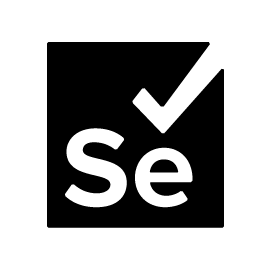
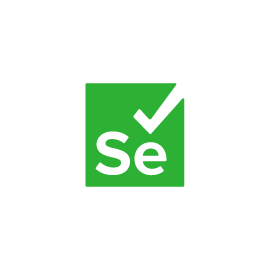
init

diff --git a/scss/main.scss b/scss/main.scss
@@ -10,18 +10,18 @@
 
 $chicago: #4C8DBF !default
 $bangalore: #40AF49 !default
-$selenium: #2F792B !default
+$selenium: #28A82E !default
 
 $selenium-invert: #fff;
 $bangalore-invert: findColorInvert($bangalore);
 $chicago-invert: findColorInvert($chicago);
-
+$primary: #28A82E;
 // Add a serif family
 $family-serif: "Merriweather", "Georgia", serif;
 
 // 3. Set the derived variables
 // Use the new pink as the primary color
-$primary: $selenium;
+$primary: #28A82E;
 $primary-invert: $selenium-invert;
 // Use the existing orange as the danger color
 //$danger: $orange;
@@ -44,13 +44,16 @@ $addColors: (
         "github": ($github, $github-invert),
         "bangalore": ($bangalore $bangalore-invert),
         "chicago": ($chicago, $chicago-invert),
-        "selenium": ($selenium, $selenium-invert)
+        "selenium": ($selenium, $selenium-invert),
+        "primary":($selenium, $selenium-invert),
+        "grey": ($grey-lighter, $white)
 );
 $colors: map-merge($colors, $addColors);
 
 // 6. Import the rest of Bulma
 @import "../sass/bulma";
-
+$primary: $selenium;
+$primary-invert: $selenium-invert;
 // Custom
 .navbar-brand {
   font-weight: bold;
@@ -66,7 +69,7 @@ $colors: map-merge($colors, $addColors);
     margin-bottom: 5px;
   }
 }
-body {font-family: 'Encode Sans', sans-serif; }
+* {font-family: 'Titillium Web', sans-serif; }
 #bangalore {
   background: url("/images/bangalore.png") no-repeat center center;
   -webkit-background-size: cover;

diff --git a/_includes/header.html b/_includes/header.html
@@ -1,8 +1,8 @@
 <div class="container">
   <nav class="navbar">
     <div class="navbar-brand">
-      <figure class="image is-square">
-      <img id="seconficon" class="is-square" src="{{ site.url }}/images/android-192x192.png" />
+      <figure id="seconficon" class="image ">
+      <img class="is-square" src="/images/android-192x192.png" />
       </figure>
       <a href="{{ "/" | prepend: site
       l }}" class="navbar-item">

diff --git a/sass/utilities/derived-variables.sass b/sass/utilities/derived-variables.sass
@@ -1,4 +1,4 @@
-$primary: $turquoise !default
+$primary: #28A82E !default
 
 $info: $cyan !default
 $success: $green !default
@@ -51,8 +51,8 @@ $pre-background: $background !default
 
 // Link colors
 
-$link: $blue !default
-$link-invert: $blue-invert !default
+$link: $primary !default
+$link-invert: $primary-invert !default
 $link-visited: $purple !default
 
 $link-hover: $grey-darker !default

diff --git a/_includes/head.html b/_includes/head.html
@@ -15,4 +15,5 @@
     <link rel="canonical" href="{{ page.url | replace:'index.html','' | absolute_url }}">
     <link rel="manifest" href="{{ "/manifest.json" | relative_url }}">
     <meta name="theme-color" content="#424242">
+    <link href="https://fonts.googleapis.com/css?family=Titillium+Web" rel="stylesheet">
 </head>

diff --git a/_layouts/post.html b/_layouts/post.html
@@ -15,7 +15,7 @@ layout: default
 </section>
 <section class="section">
     <div class="container ">
-        <div class="content">
+        <div class="content container">
             {{ content }}
         </div>
     </div>
